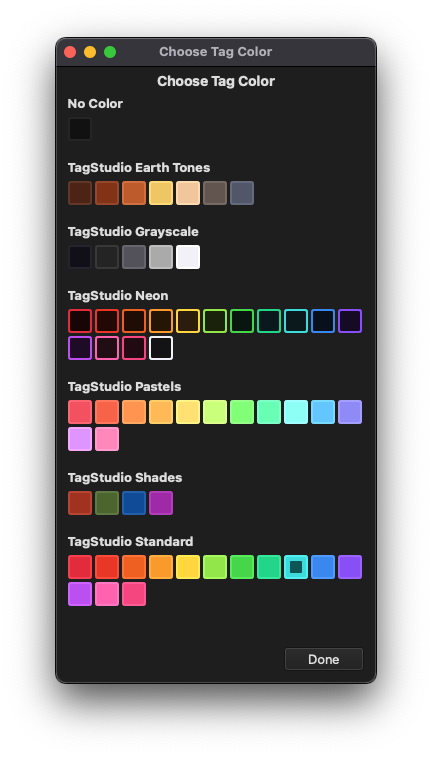
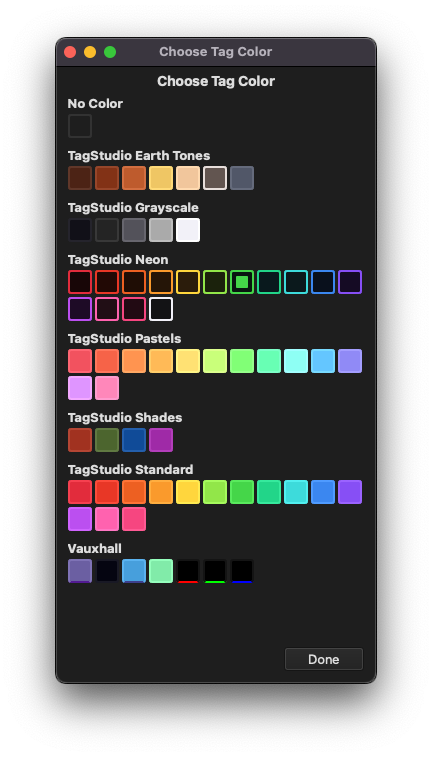
docs: add custom color info

Changed region(s): [[0.1505, 0.1823, 0.8426, 0.8203]]

diff --git a/docs/library/tag_color.md b/docs/library/tag_color.md
@@ -1,0 +1,71 @@
+# Tag Colors
+
+TagStudio features a variety of built-in tag colors, alongside the ability for users to create their own custom tag color palettes.
+
+## Tag Color Manager
+
+The Tag Color Manager is where you can create and manage your custom tag colors and associated namespaces. To open the Tag Color Manager, go to "File -> Manage Tag Colors" option in the menu bar.
+
+![Tag Color Manager](../assets/tag_color_manager.png)
+
+## Creating a Namespace
+
+TagStudio uses namespaces to group colors into palettes. Namespaces are a way for you to use the same color name across multiple palettes without having to worry about [name collision](https://en.wikipedia.org/wiki/Name_collision) with other palettes. This is especially useful when sharing your color palettes with others!\*
+
+_\* Color pack sharing coming in a future update_
+
+To create your first namespace, either click the "New Namespace" button or the large button prompt underneath the built-in colors.
+
+![Create Namespace](../assets/create_namespace.png)
+
+### Name
+
+The display name of the namespace, used for presentation.
+
+### ID Slug
+
+An internal ID for the namespace which is automatically derived from the namespace name.
+
+Namespaces beginning with "tagstudio" are reserved by TagStudio and will automatically have their text changed.
+
+<!-- prettier-ignore -->
+!!! note
+    It's currently not possible to manually edit the Namespace ID Slug. This will be possible once sharable color packs are added.
+
+## Creating a Color
+
+Once you've created your first namespace, click the "+" button inside the namespace section to create a color. To edit a color that you've previously created, either click on the color name or right click and select "Edit Color" from the context menu.
+
+![Create Color (Primary Color)](../assets/custom_color_primary_only.png)
+
+### Name
+
+The display name for the color, used for presentation. You may occasionally see the color name followed by the [namespace name](#name) in parentheses to disambiguate it from other colors with the same name.
+
+### ID Slug
+
+Similar to [Namespace ID Slugs](#id-slug), the ID Slug is used as an internal ID and is automatically derived from the tag color name.
+
+<!-- prettier-ignore -->
+!!! note
+    It's currently not possible to manually edit the Color ID Slug. This will be possible once sharable color packs are added.
+
+### Primary Color
+
+The primary color is used as the main tag color and by default is used as the background color with the text and border colors being derived from this color.
+
+### Secondary Color
+
+By default, the secondary color is only used as an optional override for the tag text color. This color can be cleared by clicking the adjacent "Reset" button.
+
+![Create Color (Secondary Color)](../assets/custom_color_no_border.png)
+
+The secondary color can also be used as the tag border color by checking the "Use Secondary Color for Border" box.
+
+![Create Color (Use Secondary for Border)](../assets/custom_color_border.png)
+
+## Using Colors
+
+When editing a tag, click the tag color button to bring up the tag color selection panel. From here you can choose any built-in TagStudio color as well as any of your custom colors.
+
+![Tag Color Selection](../assets/tag_color_selection.png)

diff --git a/docs/library/tag.md b/docs/library/tag.md
@@ -68,11 +68,15 @@ Component tags will be built from a composition-based, or "HAS" type relationshi
 
 ### Color
 
-Tags use a default uncolored appearance by default, however can take on a number of built-in and user-created\* colors and color palettes! Tag color palettes can be based on a single color value (see: TagStudio Standard, TagStudio Shades, TagStudio Pastels) or use an optional secondary color to override the border and text colors (see: TagStudio Neon).
+Tags use a default uncolored appearance by default, however can take on a number of built-in and user-created colors and color palettes! Tag color palettes can be based on a single color value (see: TagStudio Standard, TagStudio Shades, TagStudio Pastels) or use an optional secondary color use for the text and optionally the tag border (e.g. TagStudio Neon).
 
 ![Tag Color Selection](../assets/tag_color_selection.png)
 
-\*_Coming in the full version 9.5.0 release_
+#### User-Created Colors
+
+Custom palettes and colors can be created via the [Tag Color Manager](./tag_color.md). These colors will display alongside the built-in colors inside the tag selection window and are separated by their namespace names. Colors which use the secondary color for the tag border will be outlined in that color, otherwise they will only display the secondary color on the bottom of the swatch to indicate at a glance that the text colors are different.
+
+![Custom Tag Color Selection](../assets/custom_tag_color_selection.png)
 
 ### Icon
 
